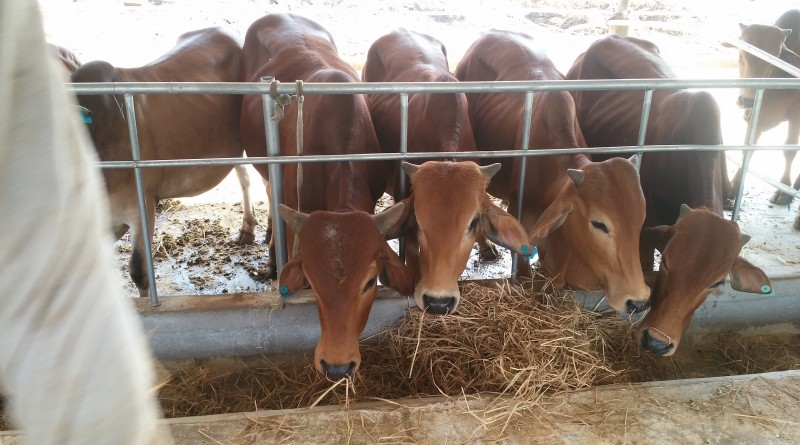
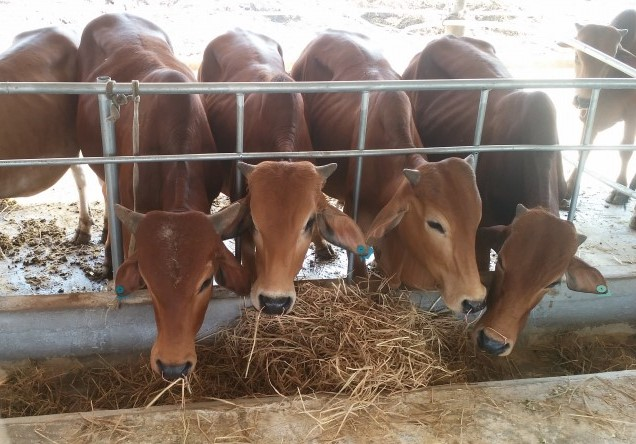
update UI

diff --git a/HSCB/Content/css/site.css b/HSCB/Content/css/site.css
@@ -33,7 +33,7 @@ p, li {
 
 .img-container {
     align-items: center;
-    height: 185px;
+    height: 150px;
     text-align: center;
     overflow: hidden;
     position: relative;
@@ -381,7 +381,7 @@ p, li {
     padding: 5px;
     z-index: 9999;
 }
-.change-language {
+.change-language a {
     width: 30px;
     height: 25px;
     float: left;
@@ -390,4 +390,5 @@ p, li {
     text-align: center;
     margin: 0 2px;
     border-radius: 2px;
+    visibility: hidden;
 }
